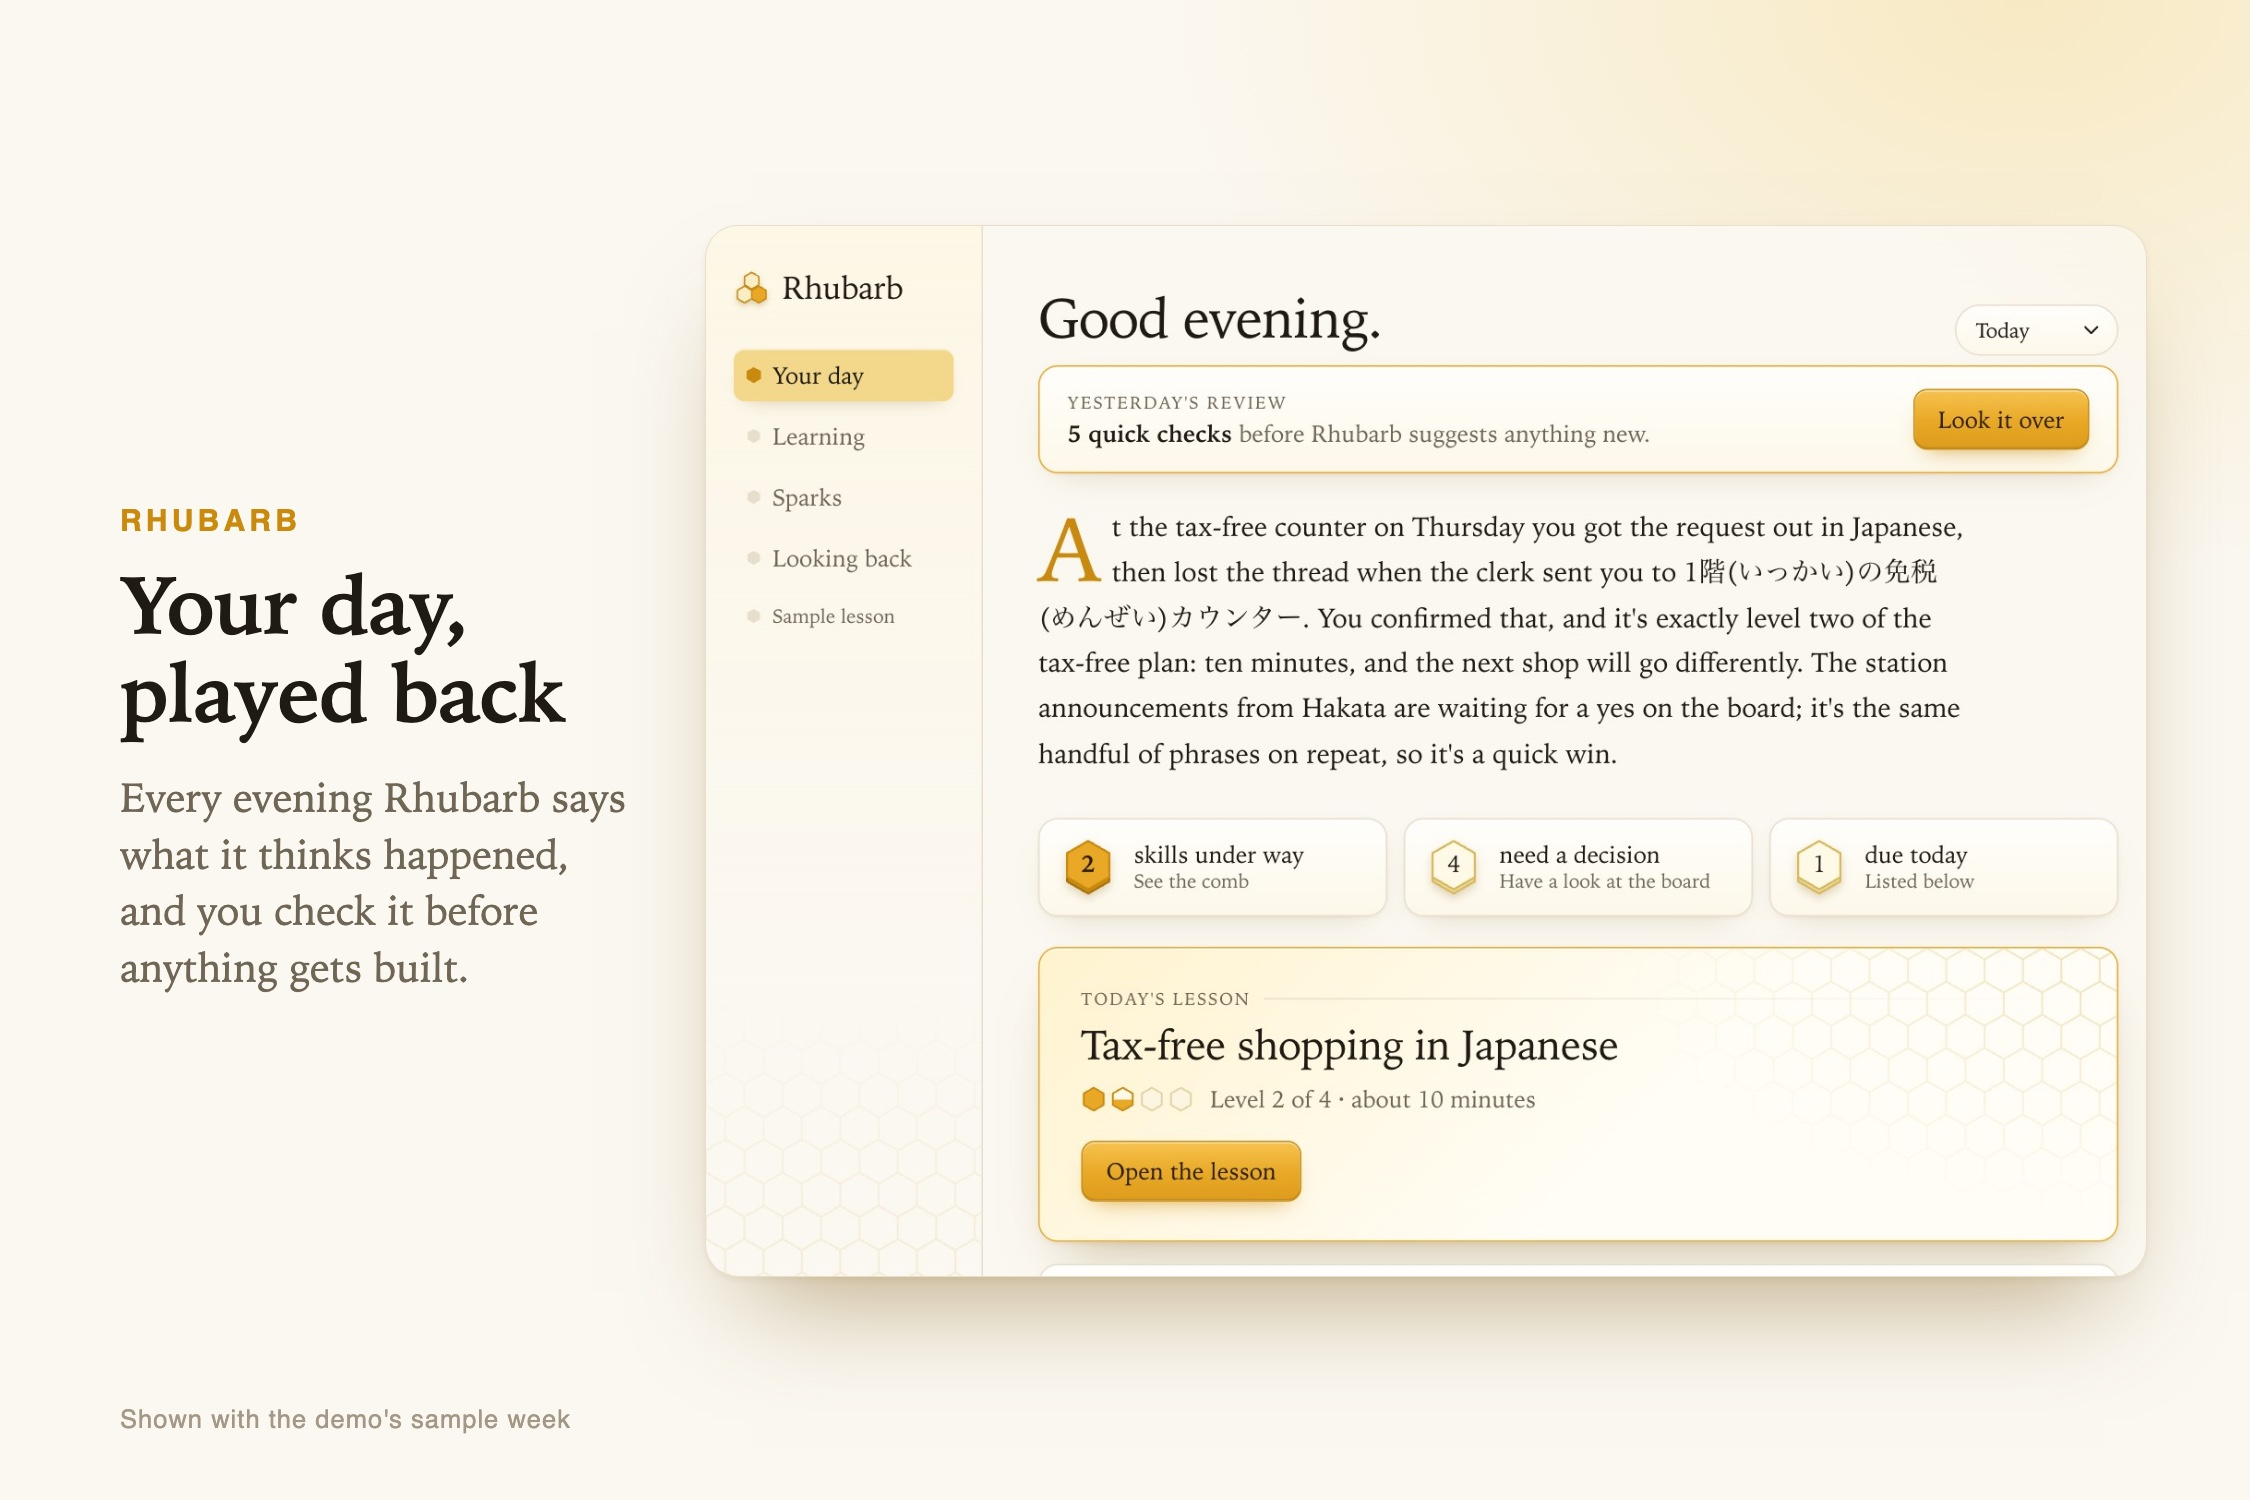
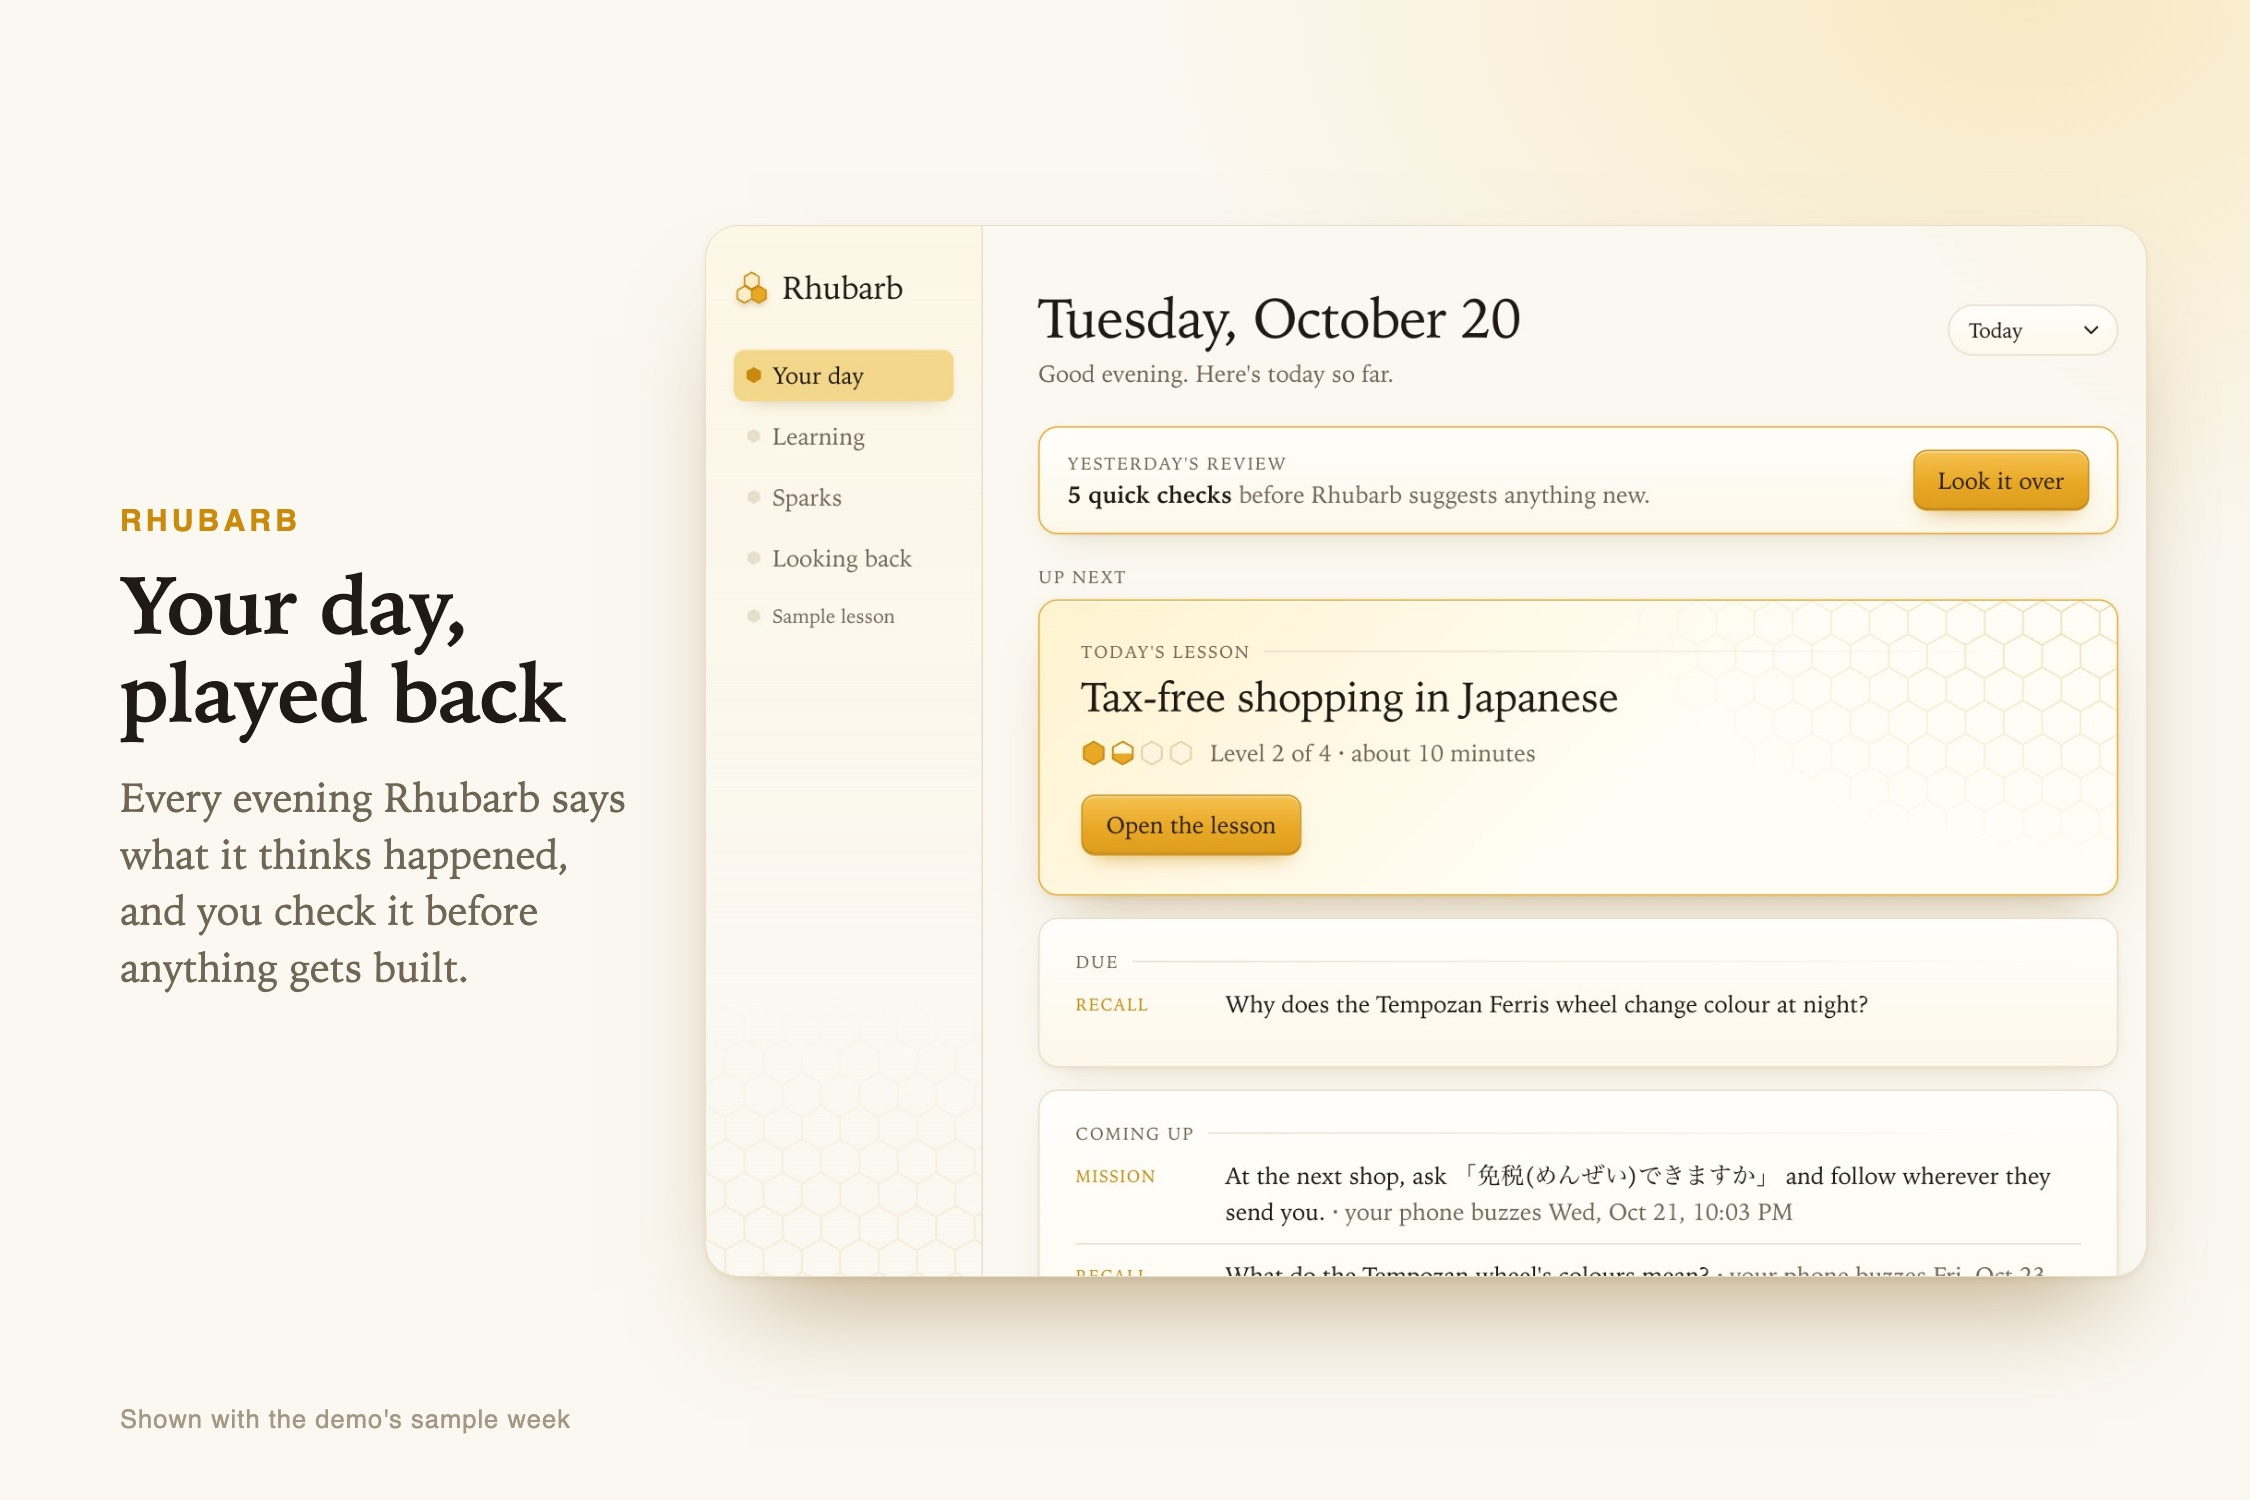
Demo: count only the tax-free plan's rungs; refresh the Your day gallery image

Changed region(s): [[0.4356, 0.184, 0.9333, 0.8587], [0.8089, 0.7667, 0.9022, 0.7973]]

diff --git a/packages/dashboard/src/fixtures.ts b/packages/dashboard/src/fixtures.ts
@@ -122,6 +122,9 @@ export const ladder: LadderLevel[] = [
   { id: 5, skillId: 6, idx: 0, title: "The history of the Ferris wheel, from Chicago to Osaka", outcome: "can tell where the Ferris wheel came from, and what makes the one you rode worth noticing", status: "done" },
 ];
 
+/** The tax-free plan's own rungs; the ladder array also holds the Ferris wheel topic's one rung. */
+const taxFreeLadder = ladder.filter((l) => l.skillId === 1);
+
 const TAX_FREE_PHOTO = "https://upload.wikimedia.org/wikipedia/commons/thumb/7/71/Tax_Free_Shop_Miyabi_in_Kansai_Airport%2C_Osaka.jpg/1280px-Tax_Free_Shop_Miyabi_in_Kansai_Airport%2C_Osaka.jpg";
 
 export const deck: Deck = {
@@ -338,7 +341,7 @@ export const today: Today = {
   letter:
     "At the tax-free counter on Thursday you got the request out in Japanese, then lost the thread when the clerk sent you to 1階(いっかい)の免税(めんぜい)カウンター. You confirmed that, and it's exactly level two of the tax-free plan: ten minutes, and the next shop will go differently. The station announcements from Hakata are waiting for a yes on the board; it's the same handful of phrases on repeat, so it's a quick win.",
   letterDate: new Date().toDateString(),
-  lesson: { lesson, skill: skills[0], ladderLength: ladder.length },
+  lesson: { lesson, skill: skills[0], ladderLength: taxFreeLadder.length },
   duePractice: [],
   dueCards: [{ cardId: 1, dueAt: now - h, card: cards[0].card }],
   proposed: 4,
@@ -371,9 +374,9 @@ export const ferrisLesson: Lesson = {
   review: JSON.stringify(ferrisReview),
 };
 
-export const skillDetail: SkillDetail = { skill: skills[0], ladder, evidence, lessons: [lesson], practice, fieldEvidence };
+export const skillDetail: SkillDetail = { skill: skills[0], ladder: taxFreeLadder, evidence, lessons: [lesson], practice, fieldEvidence };
 
-export const lessonView: LessonView = { lesson, skill: skills[0], ladder, session: null };
+export const lessonView: LessonView = { lesson, skill: skills[0], ladder: taxFreeLadder, session: null };
 
 const momentDays = [...new Set(evidence.map((e) => localDay(e.spokenAt)))].sort().reverse();
 export const privacy: PrivacyView = {
